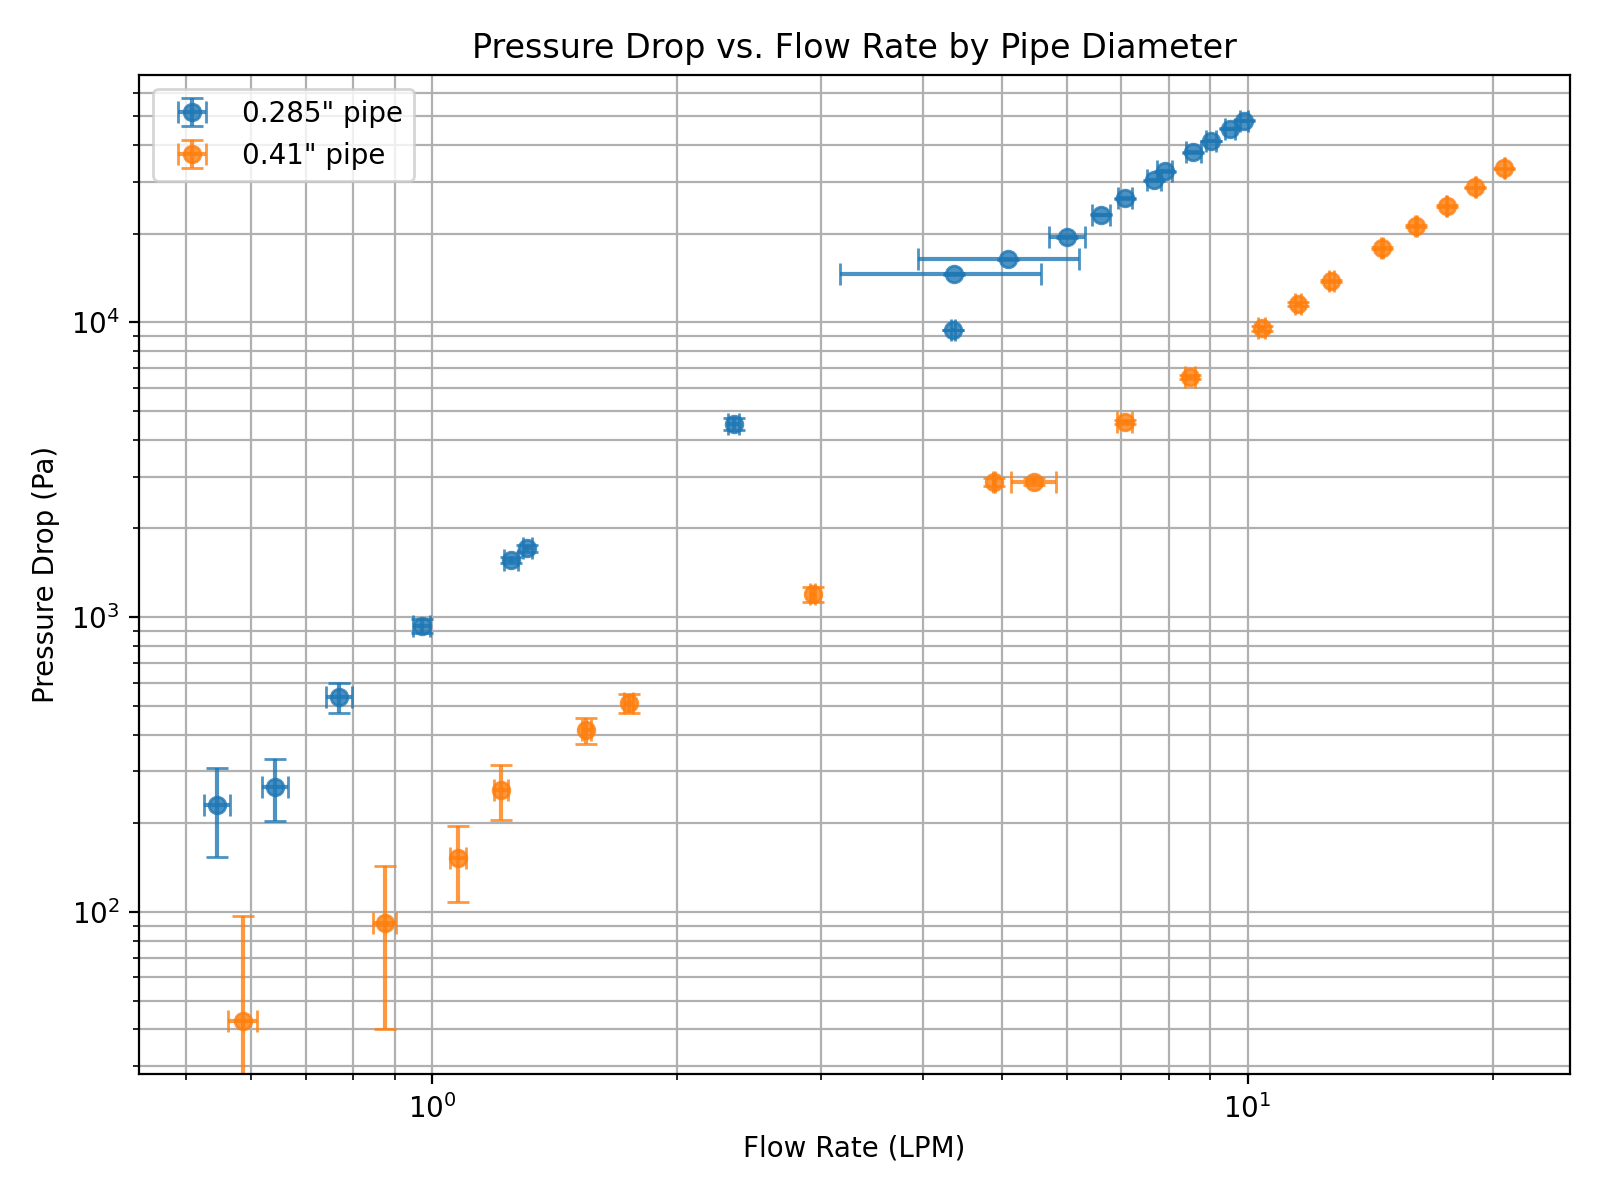
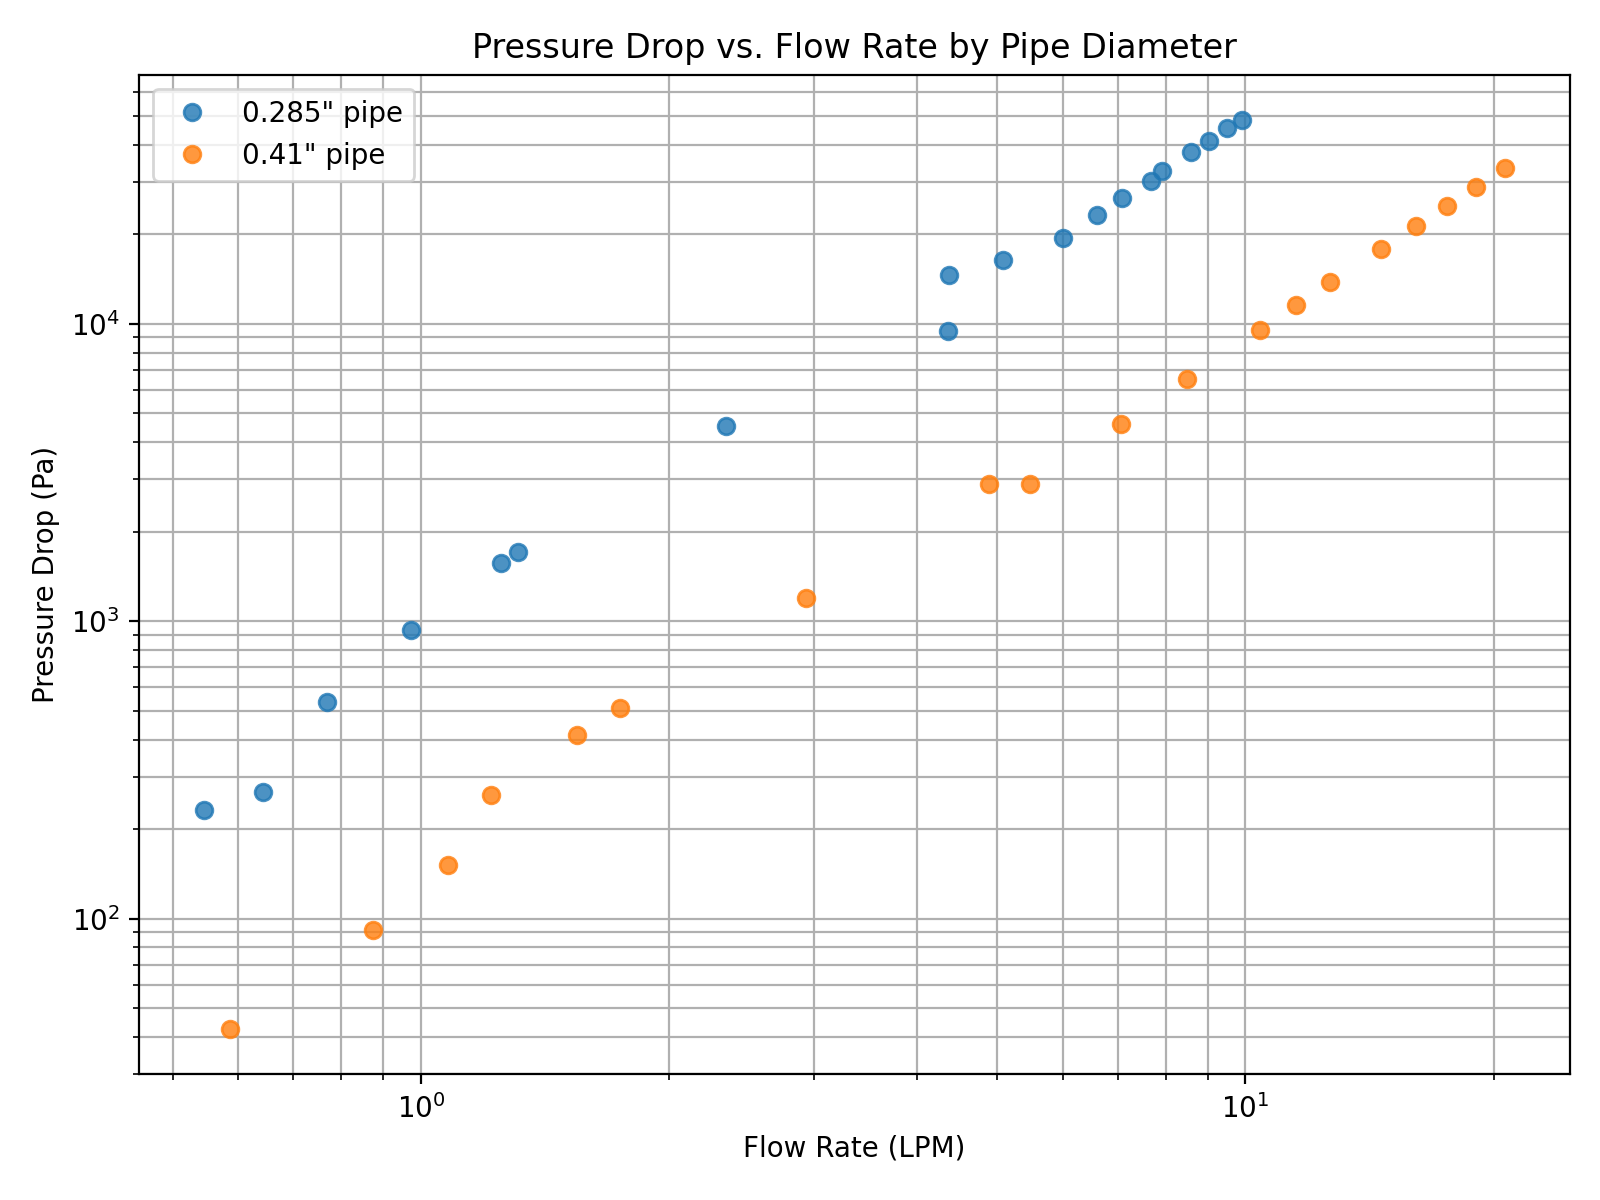
plots updates

diff --git a/create_plots.py b/create_plots.py
@@ -1,0 +1,162 @@
+import re
+import statistics
+import math
+import matplotlib.pyplot as plt
+
+PSI_TO_PA = 6894.757293168
+DIAMETER_PATTERN = re.compile(r'(\d+\.\d+)\s*(?:"|inches)')
+
+pipes = [("pvc", 0.408, 76, 4), ("pvc", 0.282, 70.5, 4), ("pvc", 0.47, 66, 4), ("steel", 0.31, 79.5, 8), ("copper", 0.312, 72.5, 8)]
+rho = 997 #kg/m^3
+mu = 9.25 * 10**-4 #Pa.s, average of measured values at 20-25C
+
+# nominal diameter as labeled in the logging notes -> measured pipe diameter/length from `pipes`
+PIPE_SPECS = {
+    0.41: {"diameter_in": 0.408, "length_in": 76},
+    0.285: {"diameter_in": 0.282, "length_in": 70.5},
+}
+
+def parse_flow_pressure_groups(filename):
+    """Group rows by logging note (one flow-rate setting) and return per-group
+    pipe diameter plus flow rate and pressure drop readings, in file order."""
+    groups = {}
+    with open(filename, "r", encoding="utf-8", errors="replace") as f:
+        lines = f.readlines()
+
+    for line in lines[4:]:
+        fields = line.rstrip("\n").split("\t")
+        if len(fields) < 4:
+            continue
+        try:
+            flow = float(fields[1])
+            pressure_psid = float(fields[2])
+        except ValueError:
+            continue
+        note = fields[3].strip()
+        if not note or "globe" in note.lower():
+            continue
+        diameter_match = DIAMETER_PATTERN.search(note)
+        if not diameter_match:
+            continue
+        diameter = float(diameter_match.group(1))
+        if diameter not in PIPE_SPECS:
+            continue
+        groups.setdefault((diameter, note), []).append((flow, pressure_psid))
+
+    return list(groups.items())
+
+def averages_with_error(groups):
+    """Return diameter, avg_flow, std_flow, avg_delta_p (Pa), std_delta_p (Pa) per group."""
+    rows = []
+    for (diameter, note), readings in groups:
+        flows = [flow for flow, _ in readings]
+        pressures_pa = [psid * PSI_TO_PA for _, psid in readings]
+        avg_flow = statistics.mean(flows)
+        avg_dp = statistics.mean(pressures_pa)
+        std_flow = statistics.pstdev(flows)
+        std_dp = statistics.pstdev(pressures_pa)
+        rows.append((diameter, avg_flow, std_flow, avg_dp, std_dp))
+    return sorted(rows)
+
+def reynolds_number(diameter, flow_rate_lpm):
+    """Reynolds number for a pipe (nominal diameter in inches) at a given flow rate (LPM)."""
+    spec = PIPE_SPECS[diameter]
+    d = spec["diameter_in"] * 0.0254
+    area = math.pi / 4 * d**2
+    q = flow_rate_lpm / 60000  # LPM -> m^3/s
+    v = q / area
+    return rho * v * d / mu
+
+def friction_factor(diameter, flow_rate_lpm, delta_p):
+    """Darcy friction factor for a pipe (nominal diameter in inches), flow rate (LPM),
+    and pressure drop (Pa)."""
+    spec = PIPE_SPECS[diameter]
+    d = spec["diameter_in"] * 0.0254
+    length = spec["length_in"] * 0.0254
+    area = math.pi / 4 * d**2
+    q = flow_rate_lpm / 60000  # LPM -> m^3/s
+    v = q / area
+    return delta_p * d / (length * 0.5 * rho * v**2)
+
+def friction_reynolds(rows):
+    """Compute Reynolds number and friction factor, with error bars, for each averaged group."""
+    results = []
+    for diameter, avg_flow, std_flow, avg_dp, std_dp in rows:
+        re = reynolds_number(diameter, avg_flow)
+        f = friction_factor(diameter, avg_flow, avg_dp)
+
+        rel_flow = std_flow / avg_flow if avg_flow else 0
+        rel_dp = std_dp / avg_dp if avg_dp else 0
+        std_re = re * rel_flow
+        std_f = f * math.sqrt(rel_dp**2 + (2 * rel_flow)**2)
+
+        results.append((diameter, re, std_re, f, std_f))
+    return results
+
+def create_plot(rows, filename="flow_vs_pressure.png"):
+    fig, ax = plt.subplots(figsize=(8, 6))
+
+    diameters = sorted(set(r[0] for r in rows))
+    colors = {diameters[0]: "tab:blue", diameters[1]: "tab:orange"} if len(diameters) == 2 \
+        else {d: c for d, c in zip(diameters, plt.cm.tab10.colors)}
+
+    for diameter in diameters:
+        subset = [r for r in rows if r[0] == diameter]
+        avg_flow = [r[1] for r in subset]
+        avg_dp = [r[3] for r in subset]
+        color = colors[diameter]
+        ax.plot(avg_flow, avg_dp, 'o', label=f'{diameter}" pipe', color=color, alpha=0.8)
+
+    ax.set_xscale("log")
+    ax.set_yscale("log")
+    ax.set_xlabel("Flow Rate (LPM)")
+    ax.set_ylabel("Pressure Drop (Pa)")
+    ax.set_title("Pressure Drop vs. Flow Rate by Pipe Diameter")
+    ax.legend()
+    ax.grid(True, which="both")
+    fig.tight_layout()
+    fig.savefig(filename, dpi=200)
+    plt.close(fig)
+    print(f"Saved plot to {filename}")
+
+def create_friction_plot(results, filename="friction_factor_vs_reynolds.png"):
+    fig, ax = plt.subplots(figsize=(8, 6))
+
+    diameters = sorted(set(r[0] for r in results))
+    colors = {diameters[0]: "tab:blue", diameters[1]: "tab:orange"} if len(diameters) == 2 \
+        else {d: c for d, c in zip(diameters, plt.cm.tab10.colors)}
+
+    for diameter in diameters:
+        subset = [r for r in results if r[0] == diameter]
+        re = [r[1] for r in subset]
+        f = [r[3] for r in subset]
+        color = colors[diameter]
+        ax.plot(re, f, 'o', label=f'{diameter}" pipe', color=color, alpha=0.8)
+
+    ax.set_xscale("log")
+    ax.set_yscale("log")
+    ax.set_xlabel("Reynolds Number")
+    ax.set_ylabel("Darcy Friction Factor")
+    ax.set_title("Friction Factor vs. Reynolds Number by Pipe Diameter")
+    ax.legend()
+    ax.grid(True, which="both")
+    fig.tight_layout()
+    fig.savefig(filename, dpi=200)
+    plt.close(fig)
+    print(f"Saved plot to {filename}")
+
+slowflow_groups = parse_flow_pressure_groups("FLU-prelab-Slowflow")
+highflow_groups = parse_flow_pressure_groups("FLU_Prelab_Highflow")
+
+rows = averages_with_error(slowflow_groups + highflow_groups)
+
+for diameter, avg_flow, std_flow, avg_dp, std_dp in rows:
+    print(f'{diameter}" pipe: Q={avg_flow:.2f}+/-{std_flow:.2f} LPM, dP={avg_dp:.1f}+/-{std_dp:.1f} Pa')
+
+create_plot(rows)
+
+friction_results = friction_reynolds(rows)
+for diameter, re, std_re, f, std_f in friction_results:
+    print(f'{diameter}" pipe: Re={re:.0f}+/-{std_re:.0f}, f={f:.4f}+/-{std_f:.4f}')
+
+create_friction_plot(friction_results)
